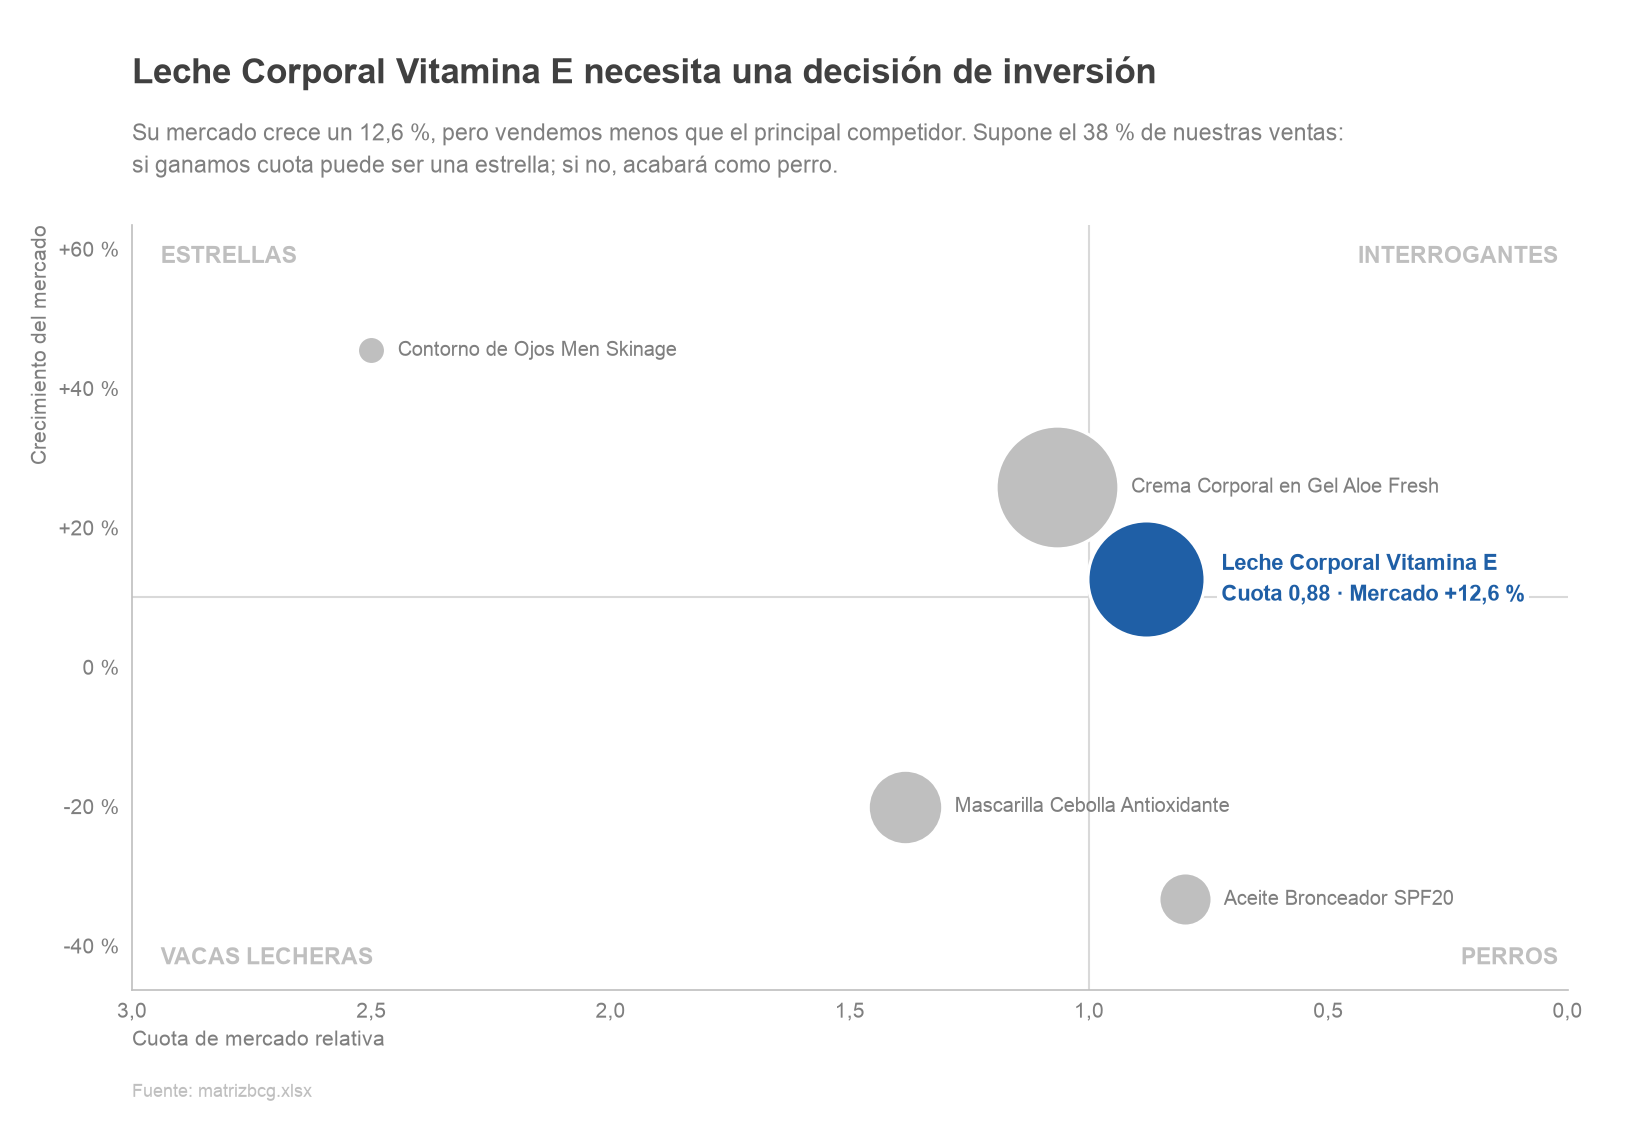
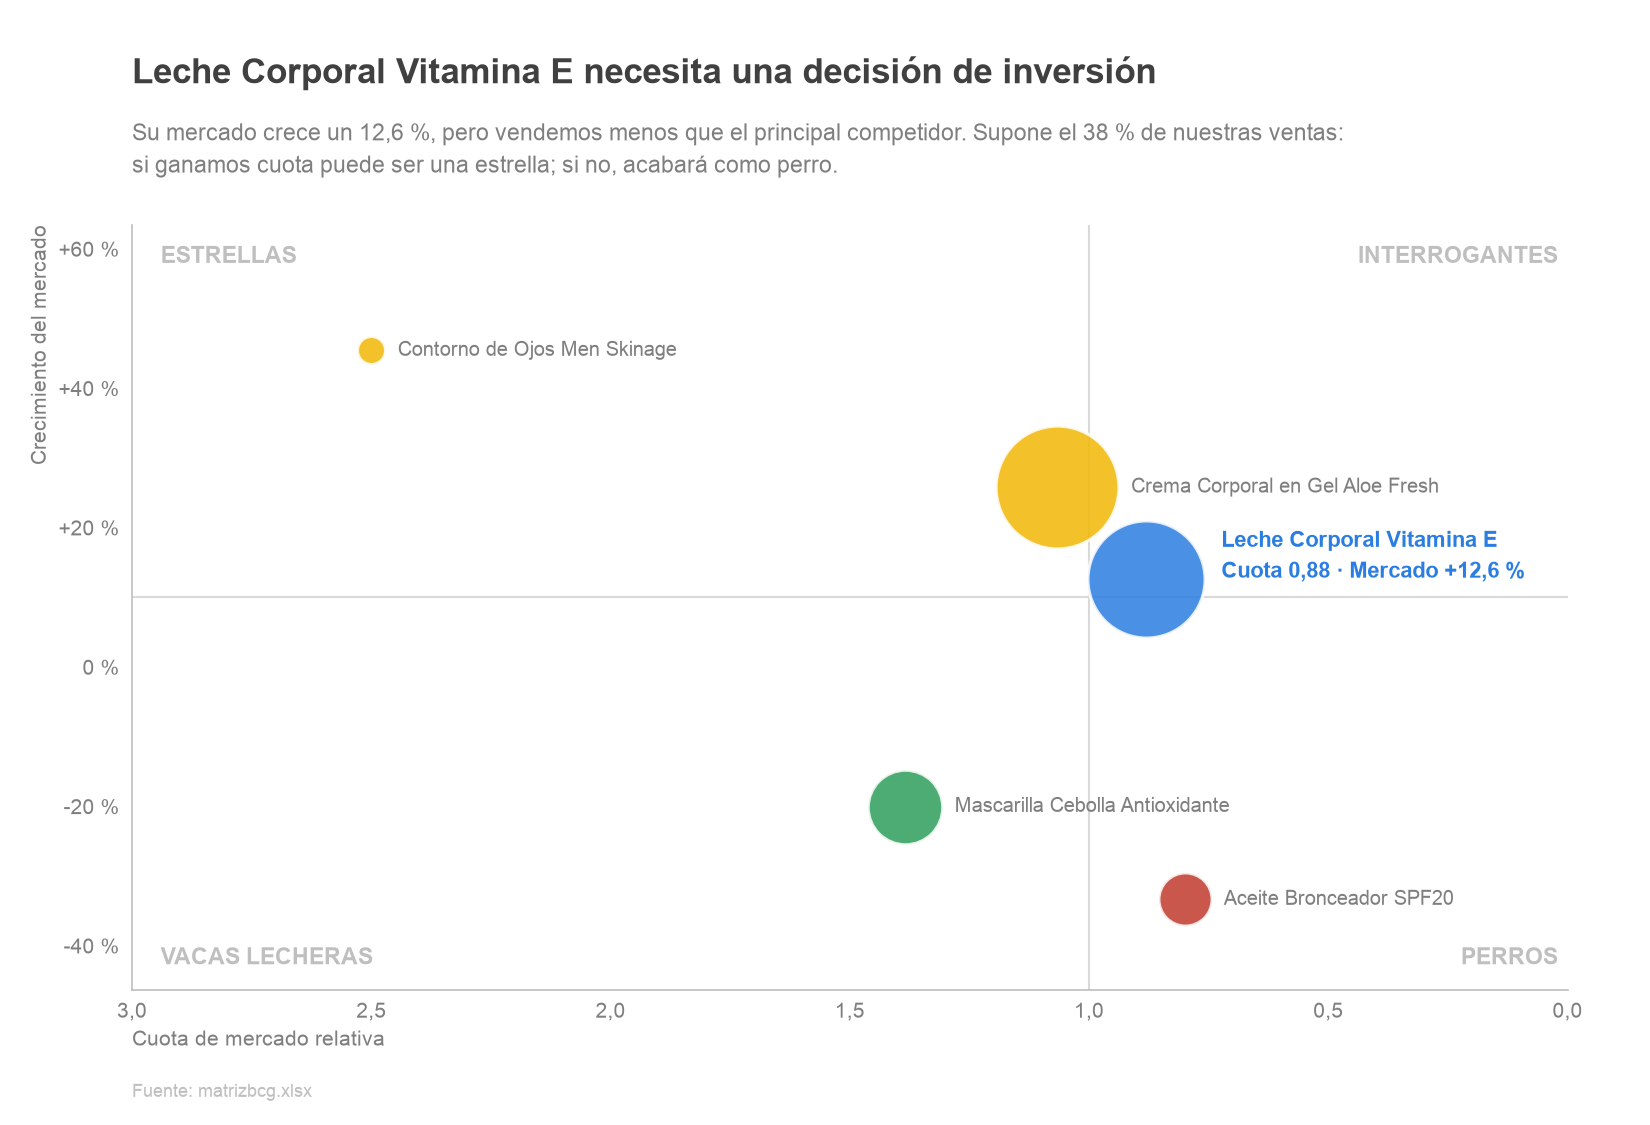
Colorear círculos por cuadrante y reubicar etiqueta del producto foco
La etiqueta del producto destacado ya no la cruza la línea divisoria.

diff --git a/main.py b/main.py
@@ -45,7 +45,10 @@ GRIS_CLARO = "#D9D9D9"
 GRIS = "#BFBFBF"
 GRIS_TEXTO = "#7F7F7F"
 GRIS_OSCURO = "#404040"
-COLOR_FOCO = "#1F5FA6"
+
+# Color de cada círculo según su cuadrante
+COLORES_CUADRANTE = {"Estrella": "#f2b705", "Interrogante": "#2a7de1",
+                     "Vaca": "#2e9e5b", "Perro": "#c0392b"}
 
 
 def coma(valor, decimales=1):
@@ -91,24 +94,25 @@ def dibujar(df):
     ax.text(x_max * 0.98, y_min, "VACAS LECHERAS", ha="left", va="bottom", **cuad)
     ax.text(0.02, y_min, "PERROS", ha="right", va="bottom", **cuad)
 
-    # 2. Todo en gris; solo el producto foco en color
+    # 2. Círculos con el color de su cuadrante
     for _, f in df.iterrows():
         es_foco = f["producto"] == foco["producto"]
         area = f["peso_cartera_%"] * 80 + 150
         radio = area ** 0.5 / 2  # en puntos
         ax.scatter(f["cuota_relativa"], f["crecimiento_%"], s=area,
-                   color=COLOR_FOCO if es_foco else GRIS,
+                   color=COLORES_CUADRANTE[f["cuadrante"]], alpha=0.85,
                    edgecolors="white", linewidths=1.5, zorder=3 if es_foco else 2)
 
         # 3. Etiquetado directo (sin leyenda)
         if es_foco:
             texto = (f"{f['producto']}\n"
                      f"Cuota {coma(f['cuota_relativa'], 2)} · Mercado {f['crecimiento_%']:+.1f} %".replace(".", ","))
-            ax.annotate(texto, (f["cuota_relativa"], f["crecimiento_%"]),
-                        textcoords="offset points", xytext=(radio + 8, 0),
-                        ha="left", va="center", fontsize=10.5, color=COLOR_FOCO,
-                        weight="bold", linespacing=1.5,
-                        bbox=dict(facecolor="white", edgecolor="none", pad=2))
+            # Se apoya en la línea divisoria, dentro de su cuadrante, para que no la cruce
+            arriba = f["crecimiento_%"] >= UMBRAL_CRECIMIENTO
+            ax.annotate(texto, (f["cuota_relativa"], UMBRAL_CRECIMIENTO),
+                        textcoords="offset points", xytext=(radio + 8, 5 if arriba else -5),
+                        ha="left", va="bottom" if arriba else "top",
+                        fontsize=10.5, color=COLORES_CUADRANTE[f["cuadrante"]], weight="bold", linespacing=1.5)
         else:
             ax.annotate(f["producto"], (f["cuota_relativa"], f["crecimiento_%"]),
                         textcoords="offset points", xytext=(radio + 6, 0),
